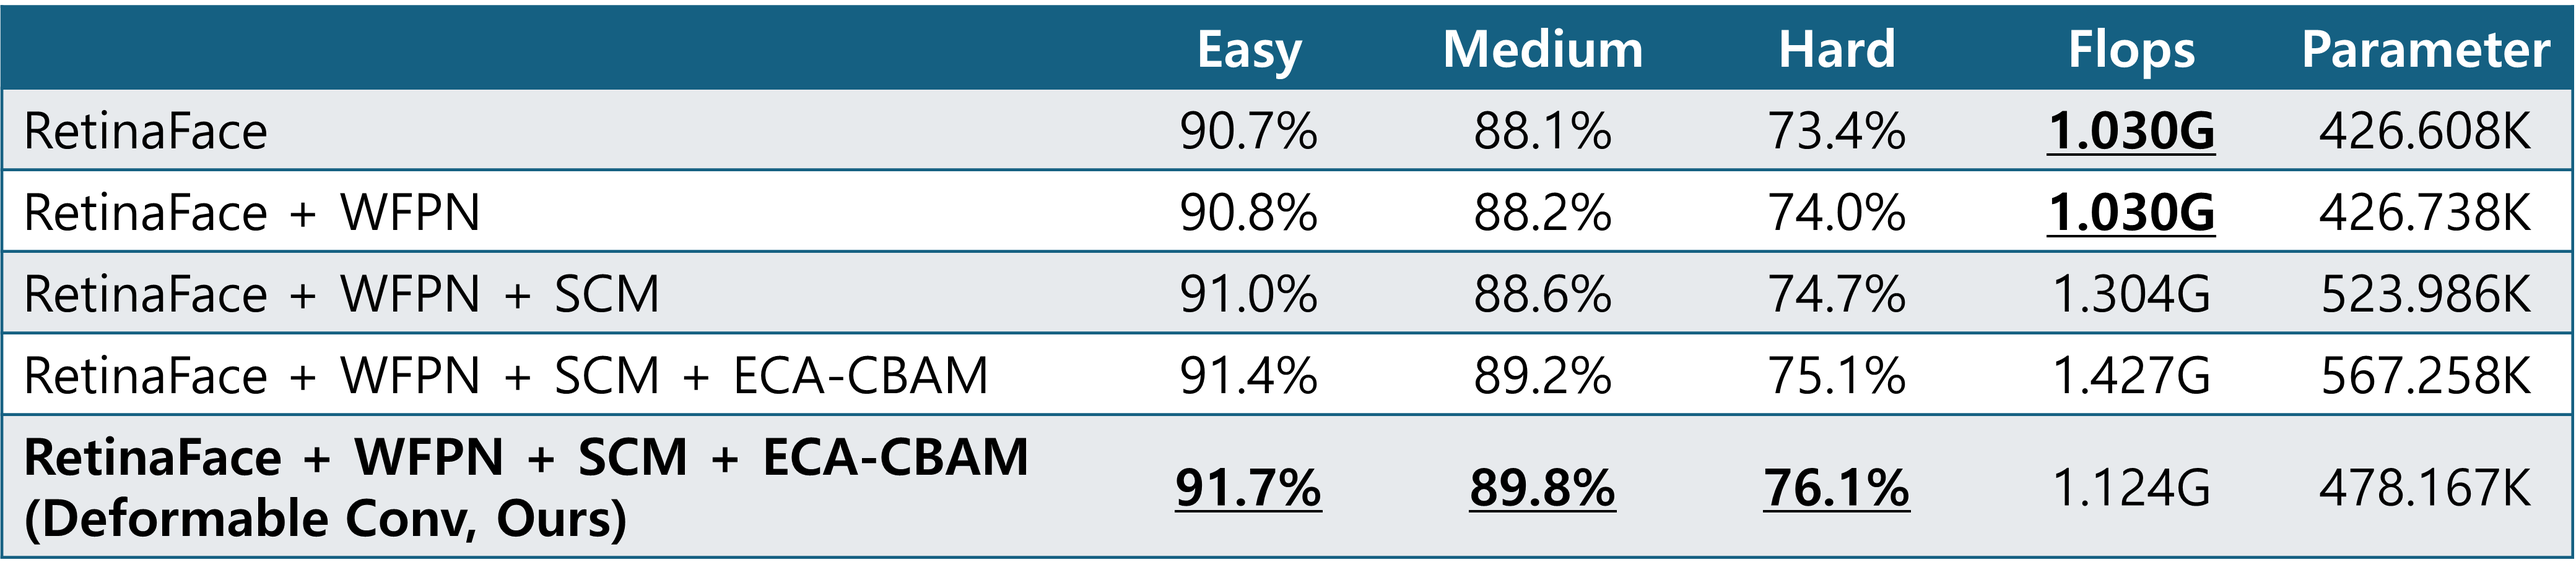
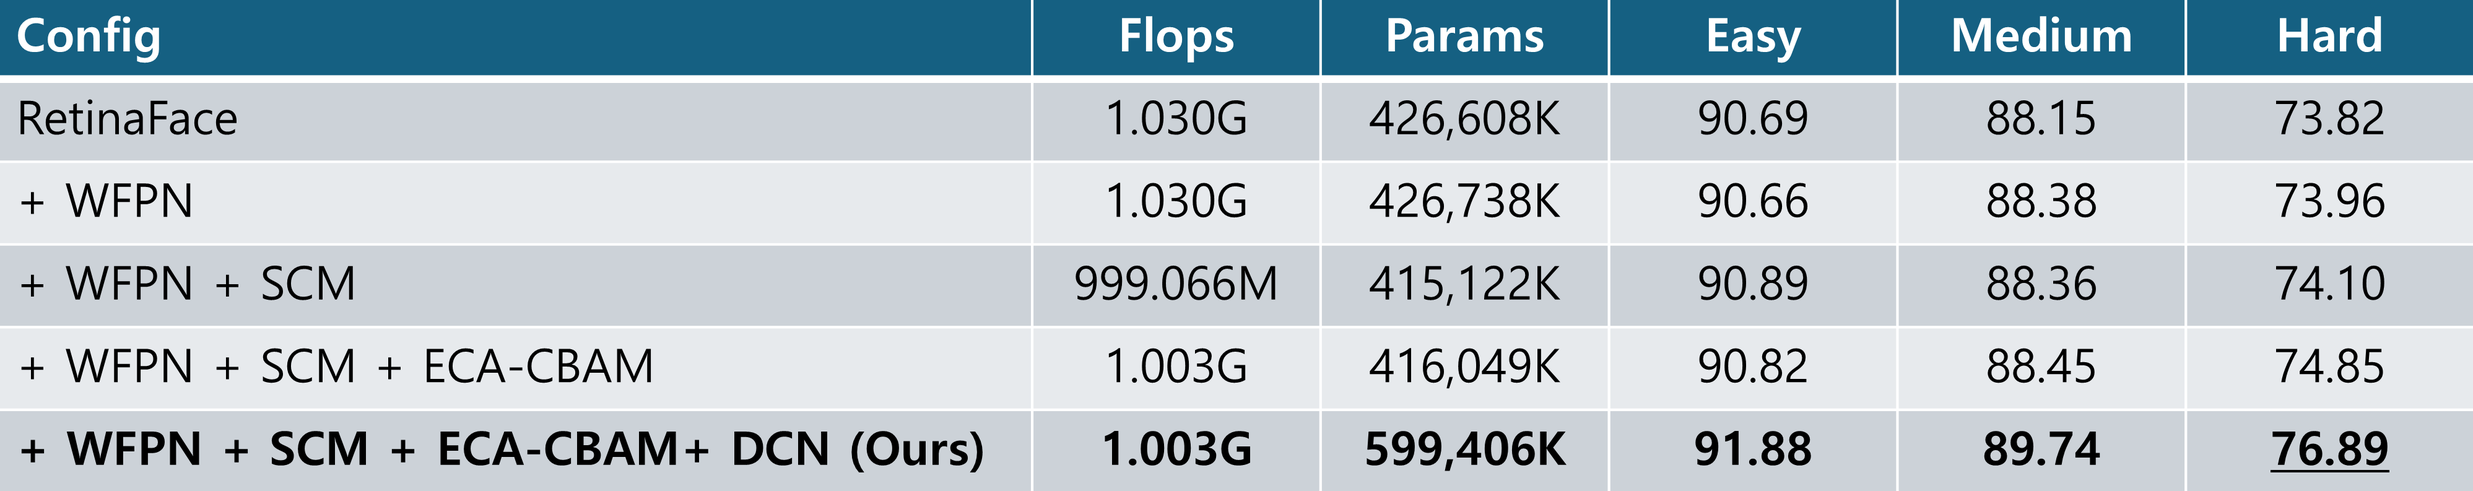
update README

diff --git a/README.md b/README.md
@@ -1,42 +1,45 @@
-# Introduction
+# Abstract
 
-본 프로젝트는 [RetinaFace](https://github.com/biubug6/Pytorch_Retinaface) 코드에 기초를 두고, 위 모델의 비효율적인 정보 흐름과 과도한 메모리 낭비 문제를 해결하는 데에 초점을 맞춥니다. 기존 RetinaFace는 경량 Backbone (MobileNet v1)을 사용 시 성능이 약 13% 급락하며, Multi-Head Loss를 사용하는 과정에서 정보의 효율성이 떨어져 Detection Head에 과도한 메모리가 할당되는 문제가 있습니다.
+This project optimizes the [RetinaFace](https://github.com/biubug6/Pytorch_Retinaface) model for lightweight deployment and enhanced detection performance. By refactoring and decoupling core modules with a MobileNet 0.25 backbone, our proposed model **reduces FLOPs by ~2.6%** while **improving AP by 3.07%** on the WiderFace Hard validation set compared to the baseline.
 
-이러한 문제를 해결하기 위하여 저희는 다음 네 가지 구조를 개편합니다.
-1) ECA-CBAM: 중요한 채널/공간 정보를 강조하여 Head 입력을 정제합니다. CBAM의 MLP를 1D Conv(ECA)로 대체해 **연산 부담을 줄이면서 표현력을 유지**합니다.
-
-2) WFPN (Weighted Feature Pyramid Network): 기존 FPN의 단순 sum 대신 학습 가능한 가중치 결합을 통해, 스케일별 중요도를 학습하며 **정보 손실을 줄이고 정보 흐름**을 원활하게 합니다.
-
-3) SCM (Shuffle Context Module): 채널 수를 줄여 연산을 억제한 뒤, Shuffle을 통해 Context를 섞어 **효율적으로 표현을 강화**합니다.
-
-4) Deformable Convolution: offset 기반 소형/변형 얼굴에서도 안정적으로 특징을 포착해 **탐지 성능을 보완**합니다.
+### Customized Modules
+* **ECA-CBAM:** Integrates ECA into the CBAM structure by replacing the MLP in the Channel Attention module with a 1D Conv. It improves AP by **~0.38%** on WiderFace Hard with only a marginal **~0.16% increase in FLOPs** compared to standard ECA.
+* **WFPN (Weighted Feature Pyramid Network):** Replaces simple summation in FPN with learnable weighted combinations to prevent information loss. Integrated with Deformable Convolution Networks (DCN) to better detect distorted objects.
+* **SCM (Shuffle Context Module):** Reduces channels to suppress computational cost and uses channel shuffling to efficiently enhance feature representations. Also integrated with DCN.
+* **Deformable Convolution:** Captures features robustly using offsets, significantly compensating for detection performance on small and deformed faces.
 
 --- 
 
-# RetinaFace vs ACWFace
+# RetinaFace vs Our Model
 
 ## RetinaFace Structure
-
-* Backbone ➞ FPN  ➞ Detection Head
+* Backbone ➞ FPN ➞ Detection Head
 
 ![image](./assets/retinaface_structure.png)
 
-## Our model Structure
-
+## Our Model Structure
 * Backbone ➞ ECA-CBAM ➞ WFPN ➞ ECA-CBAM ➞ SCM ➞ ECA-CBAM ➞ SCM ➞ ECA-CBAM ➞ Detection Head
 
 ![image](./assets/our_model_structure.png)
 
 ---
 
-# Result
+# Results
 
 ## Ablation Study
 
 ![image](./assets/ablation_study.png)
 
-* WiderFace Dataset의 Hard Case에서 약 2.7% AP 향상.
-* Hard Case는 가려짐과 매우 소형 객체가 많으므로 이는 상당한 성능 개선으로 해석됨.
+* **FLOPs reduced by 2.6%** compared to the baseline RetinaFace (based on 640 x 640 image input).
+* **AP improved by 1.19% (Easy), 1.59% (Medium), and 3.07% (Hard)** on the WiderFace dataset.
+
+## Attention Ablation Study
+
+![image](./assets/attention_ablation_study.png)
+
+* ECA-CBAM outperforms ECA and CBAM by **0.38% and 0.39% AP**, respectively, on WiderFace Hard.
+* While ECA is sufficient for relatively easy cases, the spatial attention in ECA-CBAM proves highly effective for detecting small or occluded faces.
+* Achieves performance gains while maintaining FLOPs and parameter counts nearly identical to ECA.
 
 ## Visualization
 
@@ -70,18 +73,17 @@ ps: wider_val.txt only include val file names but not label information.
 
 ## Training
 We provide restnet50 and mobilenet0.25 as backbone network to train model.
-We trained Mobilenet0.25 on imagenet dataset and get 46.58%  in top 1. If you do not wish to train the model, we also provide trained model. Pretrain model  and trained model are put in [google cloud](https://drive.google.com/open?id=1oZRSG0ZegbVkVwUd8wUIQx8W7yfZ_ki1) Password: fstq . The model could be put as follows:
+We trained Mobilenet0.25 on imagenet dataset and get 46.58%  in top 1. If you do not wish to train the model, we also provide trained model. Pretrain model  and trained model are put in [google cloud](https://drive.google.com/drive/folders/12iCRdAreBJeNPZSqD0C-dXfNZ5R4m6RD?usp=sharing). The model could be put as follows:
 ```Shell
   ./weights/
       mobilenet0.25_Final.pth
       mobilenetV1X0.25_pretrain.tar
-      Resnet50_Final.pth
 ```
 1. Before training, you can check network configuration (e.g. batch_size, min_sizes and steps etc..) in ``src/utils/config.py``.
 
 2. Train the model using WIDER FACE:
   ```Shell
-  CUDA_VISIBLE_DEVICES=0,1,2,3 python tools/train.py --network resnet50
+  CUDA_VISIBLE_DEVICES=0,1,2,3 python tools/train.py --network mobile0.25
   # or
   CUDA_VISIBLE_DEVICES=0 python tools/train.py --network mobile0.25
   ```
@@ -91,7 +93,7 @@ We trained Mobilenet0.25 on imagenet dataset and get 46.58%  in top 1. If you do
 ### Evaluation widerface val
 1. Generate txt file
 ```Shell
-python tools/test_widerface.py --trained_model weight_file --network mobile0.25 or resnet50
+python tools/test_widerface.py --trained_model weight_file --network mobile0.25
 ```
 2. Evaluate txt results. Demo come from [Here](https://github.com/wondervictor/WiderFace-Evaluation)
 ```Shell
@@ -109,7 +111,7 @@ python evaluation.py
 
 2. Evaluate the trained model using:
 ```Shell
-python tools/test_fddb.py --trained_model weight_file --network mobile0.25 or resnet50
+python tools/test_fddb.py --trained_model weight_file --network mobile0.25
 ```
 
 
@@ -118,5 +120,5 @@ python tools/test_fddb.py --trained_model weight_file --network mobile0.25 or re
 * RetinaFace Paper: [https://arxiv.org/abs/1905.00641](https://arxiv.org/abs/1905.00641)
 * RetinaFace Code: [https://github.com/biubug6/Pytorch\_Retinaface](https://github.com/biubug6/Pytorch_Retinaface)
 * FDLite Paper: [https://arxiv.org/abs/2406.19107](https://arxiv.org/abs/2406.19107)
-* Light-Weight RetinaNet for Object Detection Paper: Private.
+* Light-Weight RetinaNet for Object Detection Paper: [https://arxiv.org/abs/1905.10011](https://arxiv.org/abs/1905.10011)
 * ACWFace Paper: [https://www.spiedigitallibrary.org/journals/journal-of-electronic-imaging/volume-31/issue-1/013012/ACWFace-efficient-and-lightweight-face-detector-based-on-RetinaFace/10.1117/1.JEI.31.1.013012.short](https://www.spiedigitallibrary.org/journals/journal-of-electronic-imaging/volume-31/issue-1/013012/ACWFace-efficient-and-lightweight-face-detector-based-on-RetinaFace/10.1117/1.JEI.31.1.013012.short)
